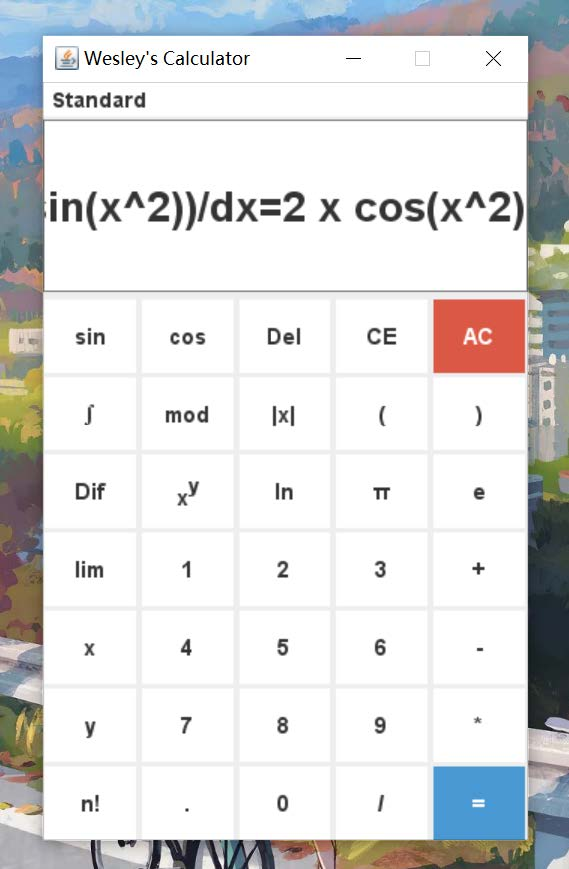
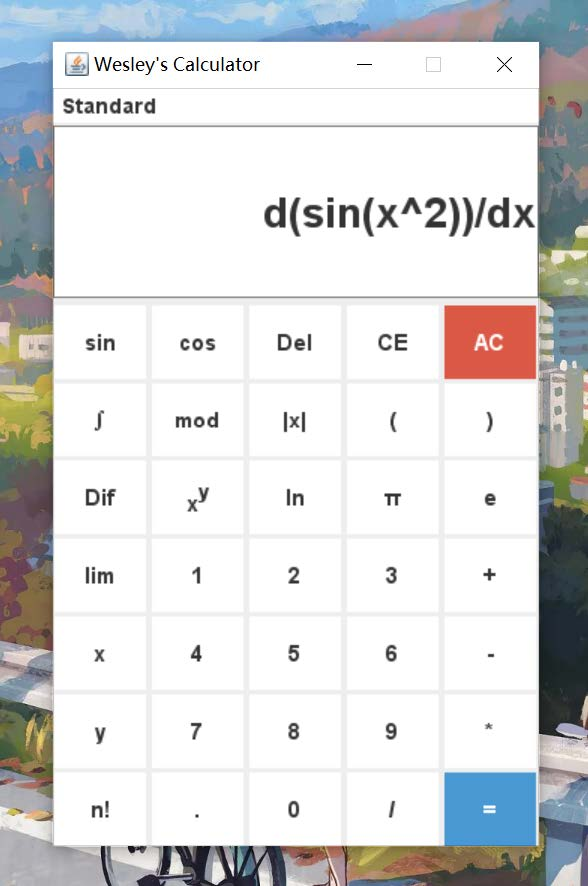
Update

diff --git a/README.md b/README.md
@@ -17,3 +17,15 @@
 <img src="https://github.com/Wesley273/IntelligentCalculator/blob/5b3bd9325c6443de3a45a213cb83895bcc454e40/img/5.jpg" width="20%">
 <img src="https://github.com/Wesley273/IntelligentCalculator/blob/5b3bd9325c6443de3a45a213cb83895bcc454e40/img/6.jpg" width="20%">
 </div>
+
+# 微积分运算
+## 求导数
+<div style="align: center">
+<img src="https://github.com/Wesley273/IntelligentCalculator/blob/5b3bd9325c6443de3a45a213cb83895bcc454e40/img/8.jpg" width="20%">
+<img src="https://github.com/Wesley273/IntelligentCalculator/blob/5b3bd9325c6443de3a45a213cb83895bcc454e40/img/9.jpg" width="20%">
+</div>
+
+## 求偏导
+<div style="align: center">
+<img src="https://github.com/Wesley273/IntelligentCalculator/blob/5b3bd9325c6443de3a45a213cb83895bcc454e40/img/7.jpg" width="20%">
+</div>
